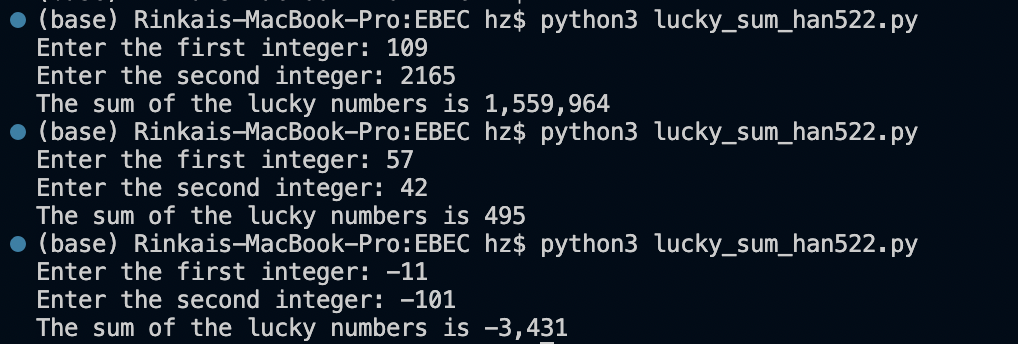
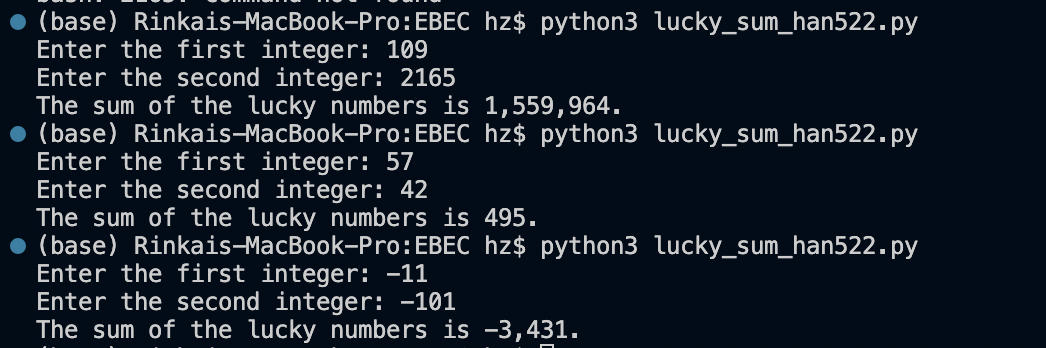
Add files via upload

Changed region(s): [[0.0, 0.0, 0.9136, 1.0]]

diff --git a/lucky_sum_han522.py b/lucky_sum_han522.py
@@ -51,7 +51,7 @@ def main():
     var2 = int(input("Enter the second integer: "))
     sum = lucky_sum(var1, var2)
     #Output result
-    print(f"The sum of the lucky numbers is {sum:,}")
+    print(f"The sum of the lucky numbers is {sum:,}.")
 
 
 """Do not change anything below this line."""
